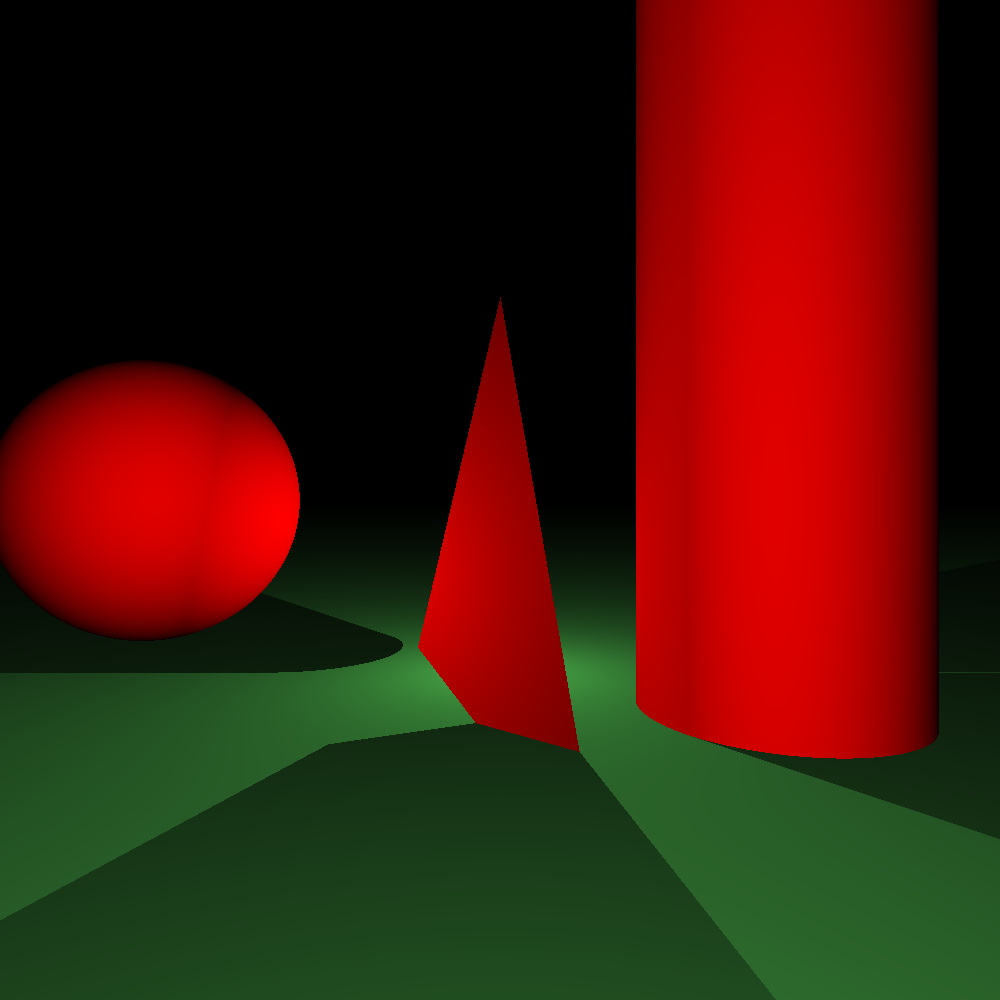
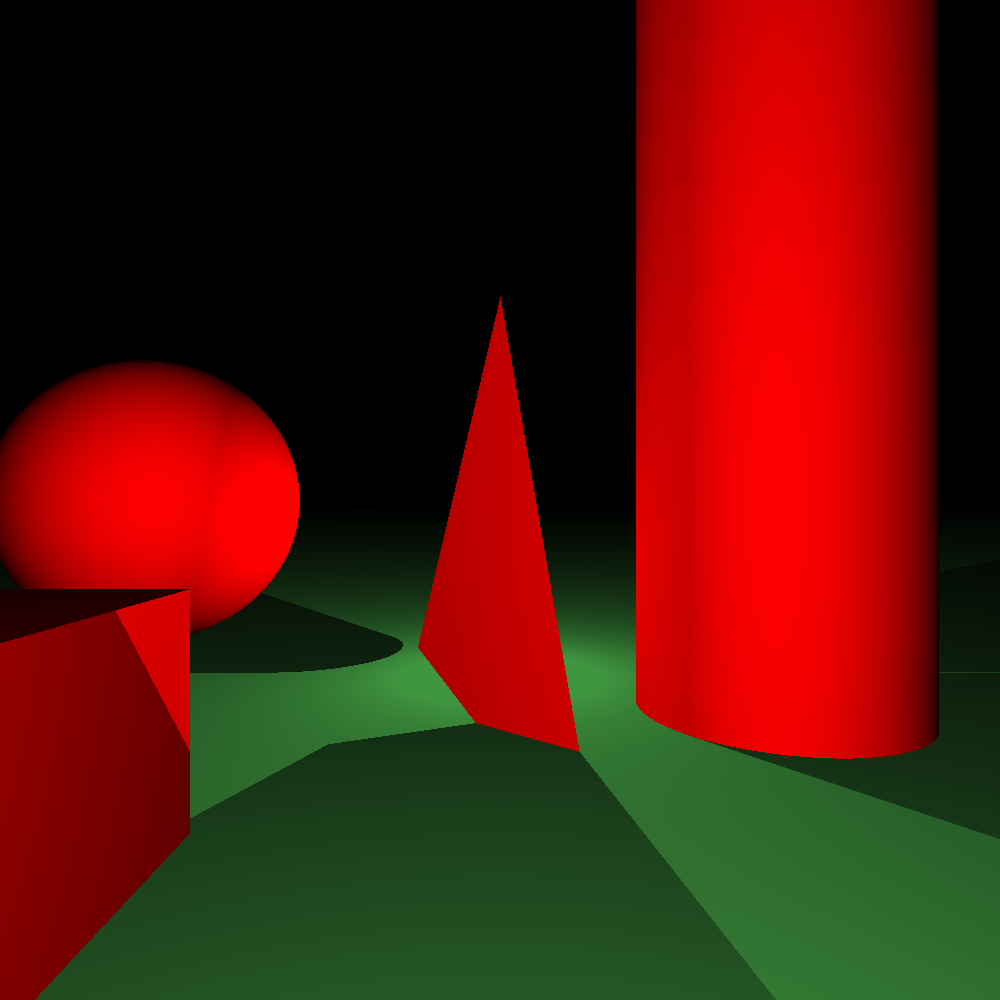
docs: update screenshots

diff --git a/README.md b/README.md
@@ -21,8 +21,14 @@ Example scenes are available in the `scenes/` folder.
 
 ## Examples
 
-![sphere_disorder_15](./screenshots/sphere_disorder_15.png)
+![sphere_materials](./screenshots//sphere_materials.png)
 ![transform_scale](./screenshots/transform_scale.png)
+
+Object files:
+
+Teapot | Cow
+:-------------------------:|:-------------------------:
+![Teapot](./screenshots/teapot_red.png)  |  ![](./screenshots/cow.png)
 
 ## Documentation
 
